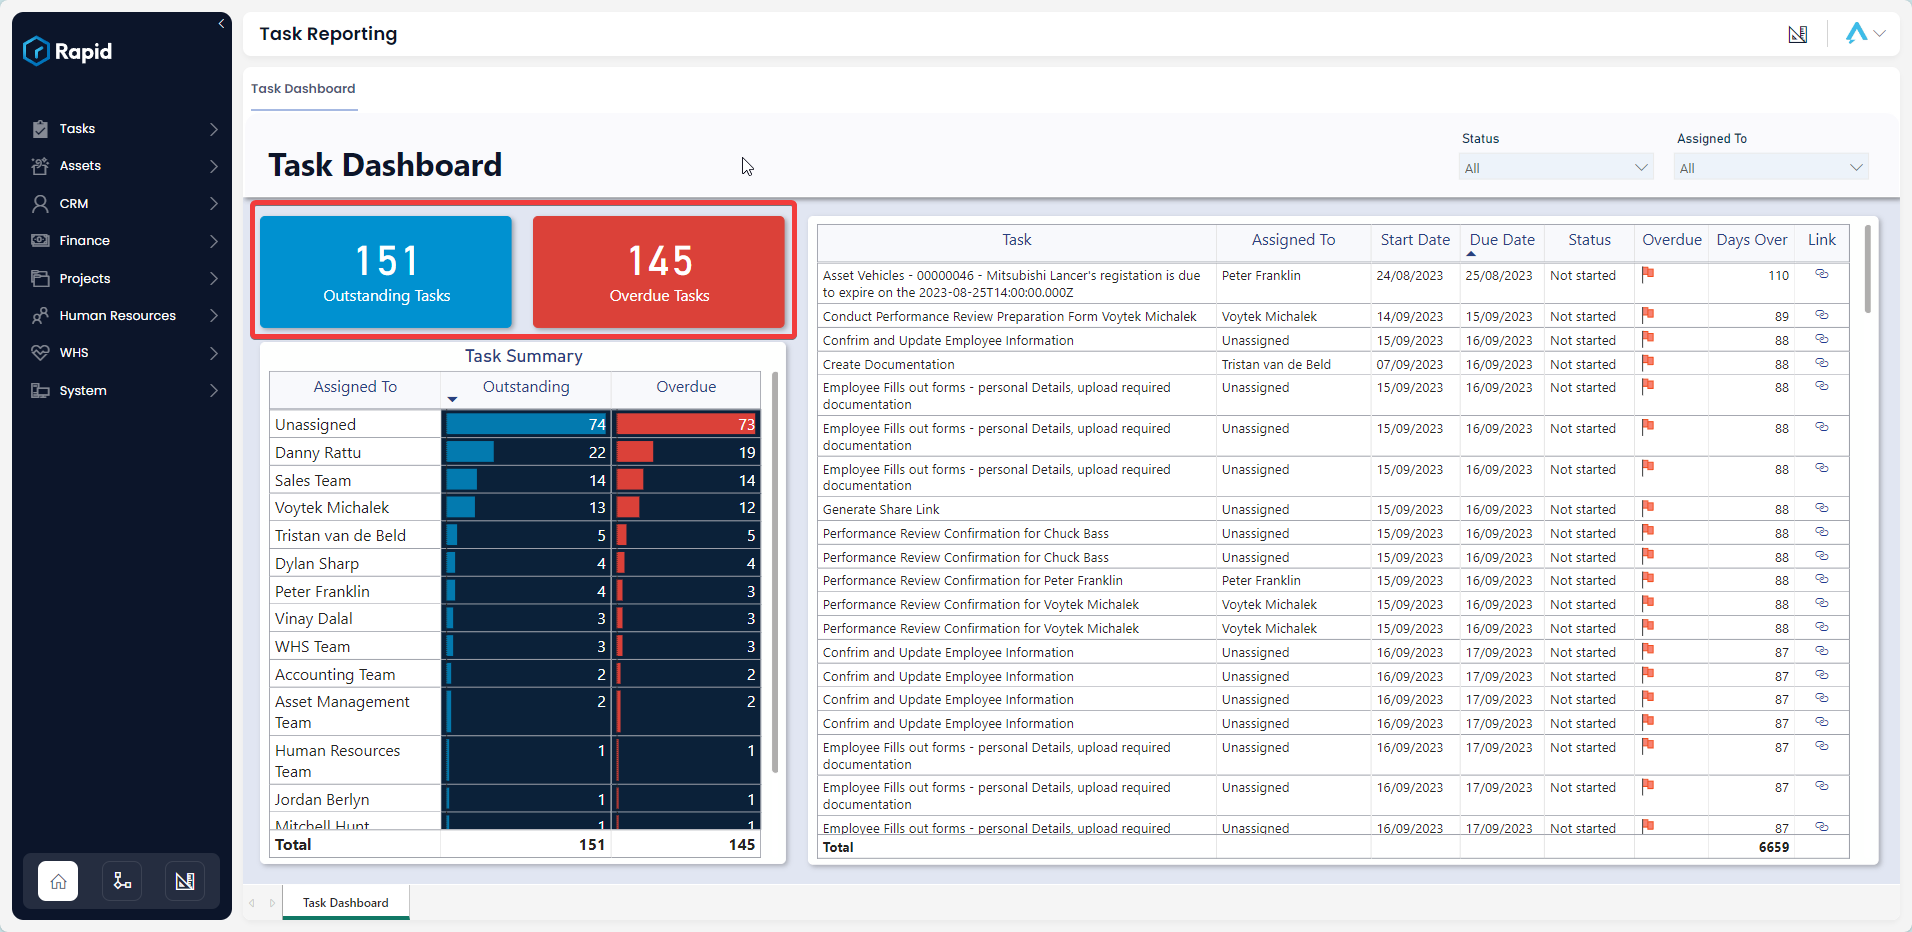
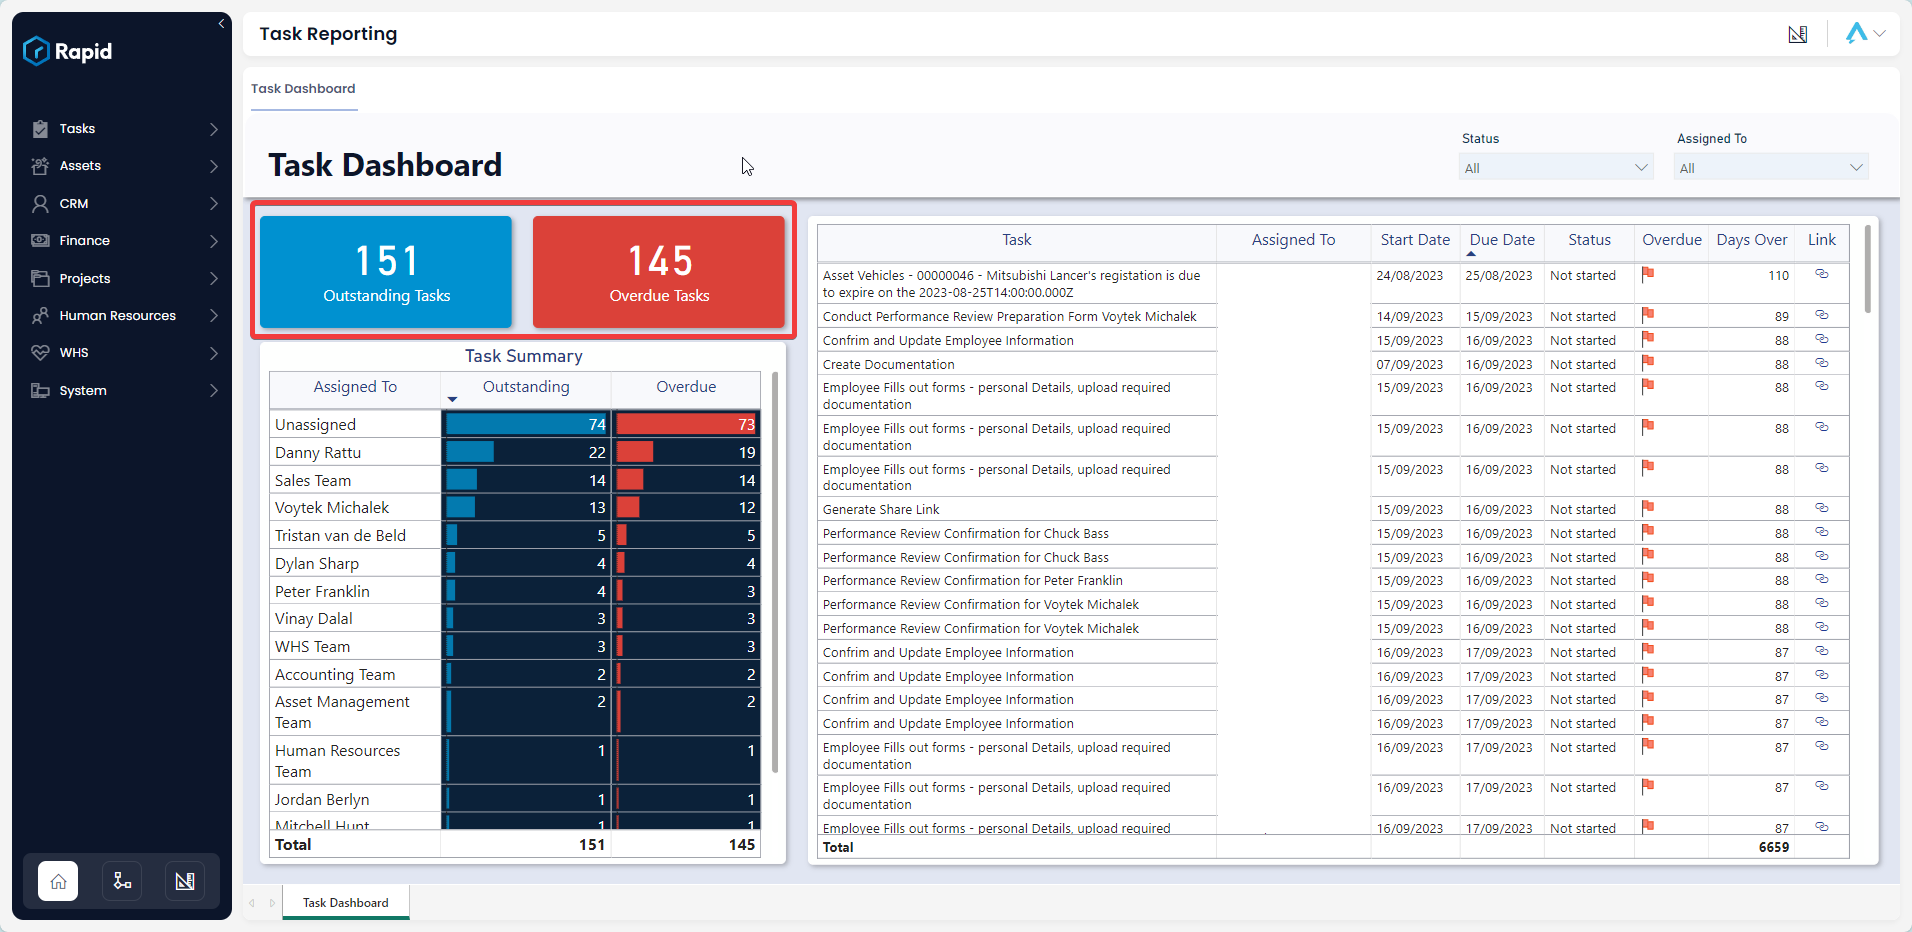
Hiding personal data of employees from screenshots

Changed region(s): [[0.648, 0.4979, 0.7097, 0.809], [0.648, 0.28, 0.7097, 0.4667], [0.648, 0.8401, 0.6789, 0.9024]]

diff --git a/docs/Rapid/2-Rapid Standard/1-Tasks/task-reporting/task-reporting.md b/docs/Rapid/2-Rapid Standard/1-Tasks/task-reporting/task-reporting.md
@@ -12,7 +12,7 @@ The **Task Dashboard** is divided into four sections: slicers, cards, and the Ta
 ### Slicers
 Slicers provides the user with the ability to filter all of the visuals on the page by a specific attribute and can be found at the top of the page.
 
-The Tasks Dashboard can be “sliced” based on no attributes, one attribute, or multiple attributes. The attributes available to “slice” by are Status and Assigned To.
+The **Tasks Dashboard** can be “sliced” based on no attributes, one attribute, or multiple attributes. The attributes available to “slice” by are Status and Assigned To.
 
 For example, you could use the slicers to filter down the visuals to Tasks that are assigned to “John Doe” with a status of “Not Started”.
 
@@ -33,4 +33,4 @@ The Task Table displays the *Task, Assigned To, Start Date , Due date, Status, O
 
 It is an interactive visual, allowing users to click any row. When an element has been selected, the report visuals will highlight or filter based on the selected row.
 
-![PowerBi Task Table](<PowerBi Task Table.png>)
+![A screenshot showing the location and appearance of the PowerBI Task table. This is a data table that contains a list of all active tasks in the Rapid site. The data table has the following headings: Task, Assigned To, Start Date, Due Date, Status, Overdue, Days Over, and Link. The screenshot is annotated with a red box to highlight the table's location.](<PowerBi Task Table.png>)
